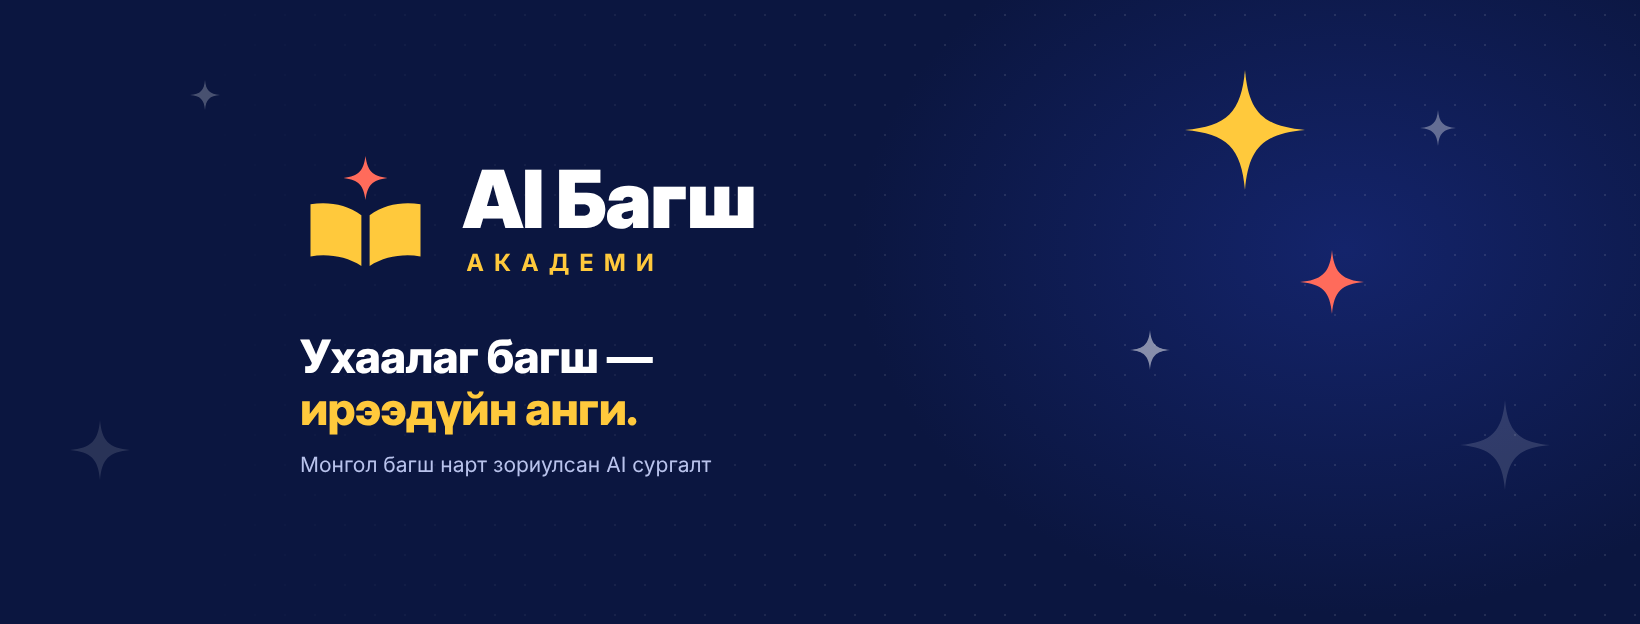
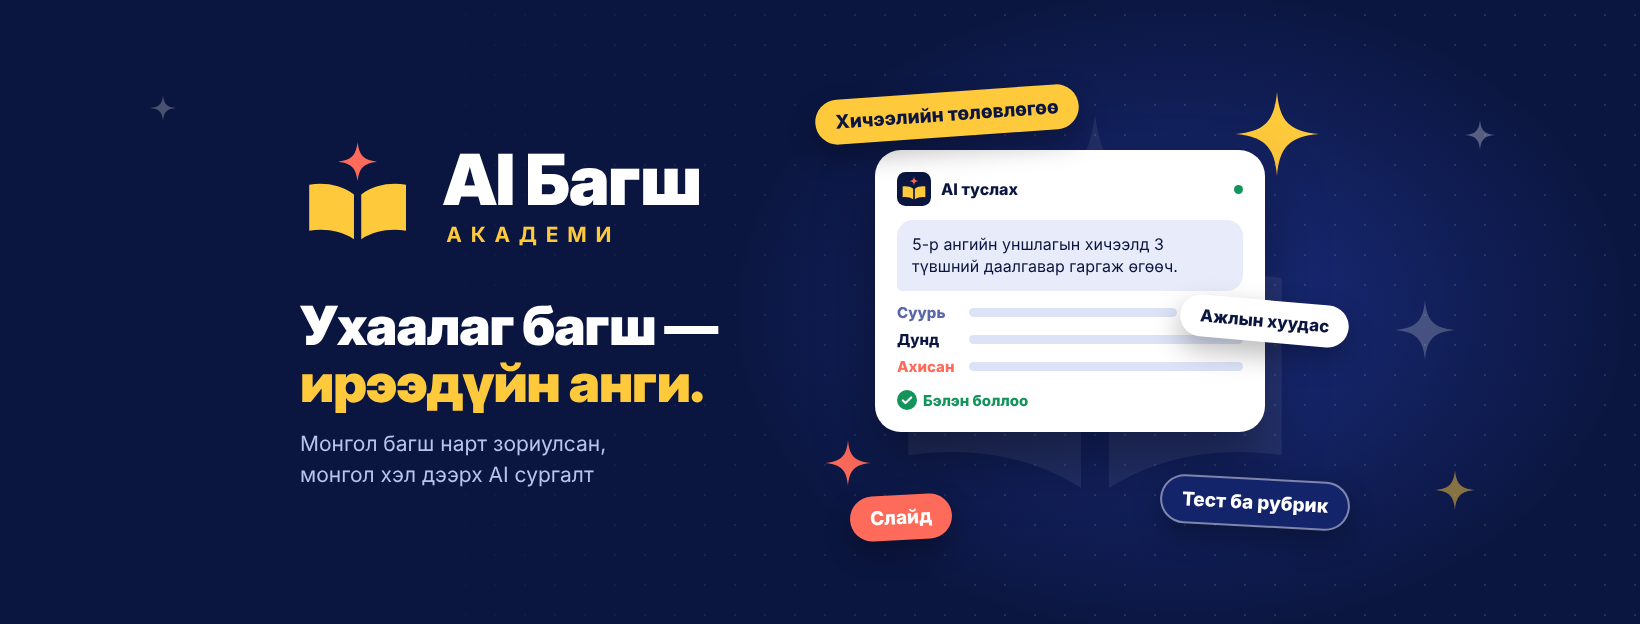
Brand cover: add AI assistant card composition, keep content in mobile safe zone
Claude-Session: https://claude.ai/code/session_011MF5bAcquYhXXWvdqZTLq1

diff --git a/brand/src/fb-cover.html b/brand/src/fb-cover.html
@@ -3,4 +3,4 @@
 body{font-family:Inter,sans-serif;color:#0B1640}
 svg{display:block;width:100%;height:100%}
 .lockup svg{width:100%;height:100%}
-html,body{width:1640px;height:624px;overflow:hidden}</style></head><body><div style="width:1640px;height:624px;background:#0B1640;position:relative;overflow:hidden"><div style="position:absolute;inset:0;background:radial-gradient(700px 520px at 82% 40%,#14246B,transparent 70%)"></div><div style="position:absolute;inset:0;background-image:radial-gradient(rgba(255,255,255,.10) 1.4px,transparent 1.5px);background-size:30px 30px;mask-image:linear-gradient(90deg,transparent 10%,#000 60%);-webkit-mask-image:linear-gradient(90deg,transparent 10%,#000 60%)"></div><div style="position:absolute;left:1185px;top:70px;width:120px;height:120px;opacity:1"><svg width="120" height="120" viewBox="0 0 100 100"><path d="M50 0 C53 35 65 47 100 50 C65 53 53 65 50 100 C47 65 35 53 0 50 C35 47 47 35 50 0Z" fill="#FFC93C"/></svg></div><div style="position:absolute;left:1300px;top:250px;width:64px;height:64px;opacity:1"><svg width="64" height="64" viewBox="0 0 100 100"><path d="M50 0 C53 35 65 47 100 50 C65 53 53 65 50 100 C47 65 35 53 0 50 C35 47 47 35 50 0Z" fill="#FF6B5B"/></svg></div><div style="position:absolute;left:1130px;top:330px;width:40px;height:40px;opacity:0.5"><svg width="40" height="40" viewBox="0 0 100 100"><path d="M50 0 C53 35 65 47 100 50 C65 53 53 65 50 100 C47 65 35 53 0 50 C35 47 47 35 50 0Z" fill="#FFFFFF"/></svg></div><div style="position:absolute;left:1420px;top:110px;width:36px;height:36px;opacity:0.35"><svg width="36" height="36" viewBox="0 0 100 100"><path d="M50 0 C53 35 65 47 100 50 C65 53 53 65 50 100 C47 65 35 53 0 50 C35 47 47 35 50 0Z" fill="#FFFFFF"/></svg></div><div style="position:absolute;left:1460px;top:400px;width:90px;height:90px;opacity:0.14"><svg width="90" height="90" viewBox="0 0 100 100"><path d="M50 0 C53 35 65 47 100 50 C65 53 53 65 50 100 C47 65 35 53 0 50 C35 47 47 35 50 0Z" fill="#FFFFFF"/></svg></div><div style="position:absolute;left:70px;top:420px;width:60px;height:60px;opacity:0.12"><svg width="60" height="60" viewBox="0 0 100 100"><path d="M50 0 C53 35 65 47 100 50 C65 53 53 65 50 100 C47 65 35 53 0 50 C35 47 47 35 50 0Z" fill="#FFFFFF"/></svg></div><div style="position:absolute;left:190px;top:80px;width:30px;height:30px;opacity:0.25"><svg width="30" height="30" viewBox="0 0 100 100"><path d="M50 0 C53 35 65 47 100 50 C65 53 53 65 50 100 C47 65 35 53 0 50 C35 47 47 35 50 0Z" fill="#FFFFFF"/></svg></div><div style="position:absolute;left:300px;top:0;bottom:0;display:flex;flex-direction:column;justify-content:center"><div class="lockup" style="display:inline-flex;align-items:center;gap:22.5px"><div style="width:165.0px;height:165.0px;margin:-12.5px -7.5px -12.5px -17.5px"><svg xmlns="http://www.w3.org/2000/svg" width="120" height="120" viewBox="0 0 120 120"><g transform="translate(0 4)"><path d="M57 92 C46 85 33 83 20 85 L20 47 C33 45 46 47 57 55 Z" fill="#FFC93C"/><path d="M63 92 C74 85 87 83 100 85 L100 47 C87 45 74 47 63 55 Z" fill="#FFC93C"/><path d="M60 12 C61.6 23 64.6 26.4 76 28 C64.6 29.6 61.6 33 60 44 C58.4 33 55.4 29.6 44 28 C55.4 26.4 58.4 23 60 12Z" fill="#FF6B5B"/></g></svg></div><div style="display:flex;flex-direction:column;line-height:1"><div style="font-family:Inter Display;font-weight:900;font-size:80.0px;letter-spacing:-.02em;color:#FFFFFF">AI Багш</div><div style="font-family:Inter;font-weight:700;font-size:23.75px;letter-spacing:.42em;color:#FFC93C;margin-top:11.25px;padding-left:3.75px">АКАДЕМИ</div></div></div><div style="font-family:Inter Display;font-weight:800;font-size:46px;letter-spacing:-.015em;color:#fff;margin-top:44px;line-height:1.12">Ухаалаг багш —<br><span style="color:#FFC93C">ирээдүйн анги.</span></div><div style="font-size:21px;color:#B9C3EC;margin-top:18px">Монгол багш нарт зориулсан AI сургалт</div></div></div></body></html>
+html,body{width:1640px;height:624px;overflow:hidden}</style></head><body><div style="width:1640px;height:624px;background:#0B1640;position:relative;overflow:hidden;font-family:Inter"><div style="position:absolute;inset:0;background:radial-gradient(640px 460px at 72% 50%,#1B2D80,transparent 70%)"></div><div style="position:absolute;inset:0;background-image:radial-gradient(rgba(255,255,255,.11) 1.4px,transparent 1.5px);background-size:30px 30px;mask-image:linear-gradient(90deg,transparent 20%,#000 65%);-webkit-mask-image:linear-gradient(90deg,transparent 20%,#000 65%)"></div><div style="position:absolute;inset:0;transform:translateX(-55px)"><div style="position:absolute;left:870px;top:40px;width:560px;height:560px;opacity:.07"><svg xmlns="http://www.w3.org/2000/svg" width="120" height="120" viewBox="0 0 120 120"><g transform="translate(0 4)"><path d="M57 92 C46 85 33 83 20 85 L20 47 C33 45 46 47 57 55 Z" fill="#FFFFFF"/><path d="M63 92 C74 85 87 83 100 85 L100 47 C87 45 74 47 63 55 Z" fill="#FFFFFF"/><path d="M60 12 C61.6 23 64.6 26.4 76 28 C64.6 29.6 61.6 33 60 44 C58.4 33 55.4 29.6 44 28 C55.4 26.4 58.4 23 60 12Z" fill="#FFFFFF"/></g></svg></div><div style="position:absolute;left:1290px;top:92px;width:84px;height:84px;opacity:1"><svg width="84" height="84" viewBox="0 0 100 100"><path d="M50 0 C53 35 65 47 100 50 C65 53 53 65 50 100 C47 65 35 53 0 50 C35 47 47 35 50 0Z" fill="#FFC93C"/></svg></div><div style="position:absolute;left:880px;top:440px;width:46px;height:46px;opacity:1"><svg width="46" height="46" viewBox="0 0 100 100"><path d="M50 0 C53 35 65 47 100 50 C65 53 53 65 50 100 C47 65 35 53 0 50 C35 47 47 35 50 0Z" fill="#FF6B5B"/></svg></div><div style="position:absolute;left:1450px;top:300px;width:60px;height:60px;opacity:0.22"><svg width="60" height="60" viewBox="0 0 100 100"><path d="M50 0 C53 35 65 47 100 50 C65 53 53 65 50 100 C47 65 35 53 0 50 C35 47 47 35 50 0Z" fill="#FFFFFF"/></svg></div><div style="position:absolute;left:1520px;top:120px;width:30px;height:30px;opacity:0.3"><svg width="30" height="30" viewBox="0 0 100 100"><path d="M50 0 C53 35 65 47 100 50 C65 53 53 65 50 100 C47 65 35 53 0 50 C35 47 47 35 50 0Z" fill="#FFFFFF"/></svg></div><div style="position:absolute;left:1490px;top:470px;width:40px;height:40px;opacity:0.5"><svg width="40" height="40" viewBox="0 0 100 100"><path d="M50 0 C53 35 65 47 100 50 C65 53 53 65 50 100 C47 65 35 53 0 50 C35 47 47 35 50 0Z" fill="#FFC93C"/></svg></div><div style="position:absolute;left:205px;top:95px;width:26px;height:26px;opacity:0.25"><svg width="26" height="26" viewBox="0 0 100 100"><path d="M50 0 C53 35 65 47 100 50 C65 53 53 65 50 100 C47 65 35 53 0 50 C35 47 47 35 50 0Z" fill="#FFFFFF"/></svg></div><div style="position:absolute;left:930px;top:150px;width:390px;background:#fff;color:#0B1640;border-radius:26px;padding:22px;box-shadow:0 30px 60px rgba(0,0,0,.4)"><div style="display:flex;align-items:center;gap:10px;margin-bottom:14px"><div style="width:34px;height:34px"><svg xmlns="http://www.w3.org/2000/svg" width="120" height="120" viewBox="0 0 120 120"><rect width="120" height="120" rx="30" fill="#0B1640"/><g transform="translate(0 4)"><path d="M57 92 C46 85 33 83 20 85 L20 47 C33 45 46 47 57 55 Z" fill="#FFC93C"/><path d="M63 92 C74 85 87 83 100 85 L100 47 C87 45 74 47 63 55 Z" fill="#FFC93C"/><path d="M60 12 C61.6 23 64.6 26.4 76 28 C64.6 29.6 61.6 33 60 44 C58.4 33 55.4 29.6 44 28 C55.4 26.4 58.4 23 60 12Z" fill="#FF6B5B"/></g></svg></div><div style="font-weight:800;font-size:16px">AI туслах</div><div style="margin-left:auto;width:9px;height:9px;border-radius:50%;background:#14935A"></div></div><div style="background:#E8ECFA;border-radius:16px 16px 16px 5px;padding:13px 15px;font-size:16px;line-height:1.4">5-р ангийн уншлагын хичээлд 3 түвшний даалгавар гаргаж өгөөч.</div><div style="margin-top:12px;display:flex;flex-direction:column;gap:8px"><div style="display:flex;align-items:center;gap:10px;font-size:15px"><span style="width:62px;font-weight:800;color:#5A67A8">Суурь</span><i style="flex:1;height:9px;border-radius:5px;background:#DDE3F7;max-width:60%"></i></div><div style="display:flex;align-items:center;gap:10px;font-size:15px"><span style="width:62px;font-weight:800;color:#0B1640">Дунд</span><i style="flex:1;height:9px;border-radius:5px;background:#DDE3F7;max-width:80%"></i></div><div style="display:flex;align-items:center;gap:10px;font-size:15px"><span style="width:62px;font-weight:800;color:#FF6B5B">Ахисан</span><i style="flex:1;height:9px;border-radius:5px;background:#DDE3F7;max-width:95%"></i></div></div><div style="margin-top:14px;font-weight:800;font-size:15px;color:#14935A"><svg width="20" height="20" viewBox="0 0 24 24" style="display:inline-block;width:20px;height:20px;vertical-align:-4px;margin-right:6px"><circle cx="12" cy="12" r="12" fill="#14935A"/><path d="M7 12.5l3.2 3.2L17 9" stroke="#fff" stroke-width="2.6" fill="none" stroke-linecap="round" stroke-linejoin="round"/></svg>Бэлэн боллоо</div></div><div style="position:absolute;left:870px;top:92px;transform:rotate(-4deg);background:#FFC93C;color:#0B1640;border-radius:999px;padding:11px 20px;font-weight:800;font-size:19px;white-space:nowrap;box-shadow:0 12px 28px rgba(0,0,0,.28)">Хичээлийн төлөвлөгөө</div><div style="position:absolute;left:1215px;top:478px;transform:rotate(3deg);background:#14246B;color:#fff;border:2px solid rgba(255,255,255,.45);border-radius:999px;padding:11px 20px;font-weight:800;font-size:19px;white-space:nowrap;box-shadow:0 12px 28px rgba(0,0,0,.28)">Тест ба рубрик</div><div style="position:absolute;left:905px;top:495px;transform:rotate(-3deg);background:#FF6B5B;color:#fff;border-radius:999px;padding:11px 20px;font-weight:800;font-size:19px;white-space:nowrap;box-shadow:0 12px 28px rgba(0,0,0,.28)">Слайд</div><div style="position:absolute;left:1235px;top:300px;transform:rotate(5deg);background:#fff;color:#0B1640;border-radius:999px;padding:11px 20px;font-weight:800;font-size:17px;white-space:nowrap;box-shadow:0 12px 28px rgba(0,0,0,.28)">Ажлын хуудас</div></div><div style="position:absolute;left:300px;top:0;bottom:0;display:flex;flex-direction:column;justify-content:center"><div class="lockup" style="display:inline-flex;align-items:center;gap:19.8px"><div style="width:145.20000000000002px;height:145.20000000000002px;margin:-11.0px -6.6000000000000005px -11.0px -15.400000000000002px"><svg xmlns="http://www.w3.org/2000/svg" width="120" height="120" viewBox="0 0 120 120"><g transform="translate(0 4)"><path d="M57 92 C46 85 33 83 20 85 L20 47 C33 45 46 47 57 55 Z" fill="#FFC93C"/><path d="M63 92 C74 85 87 83 100 85 L100 47 C87 45 74 47 63 55 Z" fill="#FFC93C"/><path d="M60 12 C61.6 23 64.6 26.4 76 28 C64.6 29.6 61.6 33 60 44 C58.4 33 55.4 29.6 44 28 C55.4 26.4 58.4 23 60 12Z" fill="#FF6B5B"/></g></svg></div><div style="display:flex;flex-direction:column;line-height:1"><div style="font-family:Inter Display;font-weight:900;font-size:70.4px;letter-spacing:-.02em;color:#FFFFFF">AI Багш</div><div style="font-family:Inter;font-weight:700;font-size:20.900000000000002px;letter-spacing:.42em;color:#FFC93C;margin-top:9.9px;padding-left:3.3000000000000003px">АКАДЕМИ</div></div></div><div style="font-family:Inter Display;font-weight:900;font-size:54px;letter-spacing:-.02em;color:#fff;margin-top:40px;line-height:1.06">Ухаалаг багш —<br><span style="color:#FFC93C">ирээдүйн анги.</span></div><div style="font-size:21px;color:#B9C3EC;margin-top:18px;line-height:1.45">Монгол багш нарт зориулсан,<br>монгол хэл дээрх AI сургалт</div></div></div></body></html>

diff --git a/brand/build.py b/brand/build.py
@@ -54,20 +54,41 @@ write("src/fb-profile.html",
       f'<div style="position:absolute;inset:0;background:radial-gradient(520px 520px at 50% 50%,#1A2C78,transparent 72%)"></div>'
       f'<div style="width:900px;height:900px;position:relative">{mark(GOLD, CORAL)}</div></div>', 1080, 1080)
 
-# --- Facebook cover (brand, not promo). Safe centre 1109px for mobile.
-cover_pattern = "".join(
-    f'<div style="position:absolute;left:{x}px;top:{y}px;width:{s}px;height:{s}px;opacity:{o}">{spark(c, s)}</div>'
-    for x,y,s,c,o in [(1185,70,120,GOLD,1),(1300,250,64,CORAL,1),(1130,330,40,"#FFFFFF",.5),(1420,110,36,"#FFFFFF",.35),(1460,400,90,"#FFFFFF",.14),(70,420,60,"#FFFFFF",.12),(190,80,30,"#FFFFFF",.25)])
+# --- Facebook cover (brand, not promo). Mobile shows centre 1109px (x 265-1374).
+def pill(text, bg, fg, border=None, x=0, y=0, rot=0, size=19):
+    b = f"border:2px solid {border};" if border else ""
+    return (f'<div style="position:absolute;left:{x}px;top:{y}px;transform:rotate({rot}deg);background:{bg};color:{fg};{b}'
+            f'border-radius:999px;padding:11px 20px;font-weight:800;font-size:{size}px;white-space:nowrap;box-shadow:0 12px 28px rgba(0,0,0,.28)">{text}</div>')
+chk = '<svg width="20" height="20" viewBox="0 0 24 24" style="display:inline-block;width:20px;height:20px;vertical-align:-4px;margin-right:6px"><circle cx="12" cy="12" r="12" fill="#14935A"/><path d="M7 12.5l3.2 3.2L17 9" stroke="#fff" stroke-width="2.6" fill="none" stroke-linecap="round" stroke-linejoin="round"/></svg>'
+chat = (f'<div style="position:absolute;left:930px;top:150px;width:390px;background:#fff;color:{NAVY};border-radius:26px;padding:22px;box-shadow:0 30px 60px rgba(0,0,0,.4)">'
+        f'<div style="display:flex;align-items:center;gap:10px;margin-bottom:14px"><div style="width:34px;height:34px">{mark(GOLD,CORAL,NAVY)}</div>'
+        f'<div style="font-weight:800;font-size:16px">AI туслах</div><div style="margin-left:auto;width:9px;height:9px;border-radius:50%;background:#14935A"></div></div>'
+        f'<div style="background:{SKY};border-radius:16px 16px 16px 5px;padding:13px 15px;font-size:16px;line-height:1.4">5-р ангийн уншлагын хичээлд 3 түвшний даалгавар гаргаж өгөөч.</div>'
+        f'<div style="margin-top:12px;display:flex;flex-direction:column;gap:8px">'
+        + "".join(f'<div style="display:flex;align-items:center;gap:10px;font-size:15px"><span style="width:62px;font-weight:800;color:{c}">{lv}</span><i style="flex:1;height:9px;border-radius:5px;background:#DDE3F7;max-width:{w}%"></i></div>'
+                  for lv,c,w in [("Суурь","#5A67A8",60),("Дунд",NAVY,80),("Ахисан",CORAL,95)])
+        + f'</div><div style="margin-top:14px;font-weight:800;font-size:15px;color:#14935A">{chk}Бэлэн боллоо</div></div>')
+deco = "".join(
+    f'<div style="position:absolute;left:{x}px;top:{y}px;width:{sz}px;height:{sz}px;opacity:{o}">{spark(c, sz)}</div>'
+    for x,y,sz,c,o in [(1290,92,84,GOLD,1),(880,440,46,CORAL,1),(1450,300,60,"#FFFFFF",.22),(1520,120,30,"#FFFFFF",.3),(1490,470,40,GOLD,.5),(205,95,26,"#FFFFFF",.25)])
 write("src/fb-cover.html",
-      f'<div style="width:1640px;height:624px;background:{NAVY};position:relative;overflow:hidden">'
-      f'<div style="position:absolute;inset:0;background:radial-gradient(700px 520px at 82% 40%,{NAVY2},transparent 70%)"></div>'
-      f'<div style="position:absolute;inset:0;background-image:radial-gradient(rgba(255,255,255,.10) 1.4px,transparent 1.5px);background-size:30px 30px;'
-      f'mask-image:linear-gradient(90deg,transparent 10%,#000 60%);-webkit-mask-image:linear-gradient(90deg,transparent 10%,#000 60%)"></div>'
-      f'{cover_pattern}'
-      f'<div style="position:absolute;left:300px;top:0;bottom:0;display:flex;flex-direction:column;justify-content:center">'
-      f'{lockup(True,1.25)}'
-      f'<div style="font-family:Inter Display;font-weight:800;font-size:46px;letter-spacing:-.015em;color:#fff;margin-top:44px;line-height:1.12">Ухаалаг багш —<br><span style="color:{GOLD}">ирээдүйн анги.</span></div>'
-      f'<div style="font-size:21px;color:{MIST};margin-top:18px">Монгол багш нарт зориулсан AI сургалт</div>'
+      f'<div style="width:1640px;height:624px;background:{NAVY};position:relative;overflow:hidden;font-family:Inter">'
+      f'<div style="position:absolute;inset:0;background:radial-gradient(640px 460px at 72% 50%,#1B2D80,transparent 70%)"></div>'
+      f'<div style="position:absolute;inset:0;background-image:radial-gradient(rgba(255,255,255,.11) 1.4px,transparent 1.5px);background-size:30px 30px;'
+      f'mask-image:linear-gradient(90deg,transparent 20%,#000 65%);-webkit-mask-image:linear-gradient(90deg,transparent 20%,#000 65%)"></div>'
+      # big faint brand book behind the composition
+      f'<div style="position:absolute;inset:0;transform:translateX(-55px)">'
+      f'<div style="position:absolute;left:870px;top:40px;width:560px;height:560px;opacity:.07">{mark("#FFFFFF","#FFFFFF")}</div>'
+      f'{deco}{chat}'
+      + pill("Хичээлийн төлөвлөгөө", GOLD, NAVY, x=870, y=92, rot=-4)
+      + pill("Тест ба рубрик", NAVY2, "#fff", border="rgba(255,255,255,.45)", x=1215, y=478, rot=3)
+      + pill("Слайд", CORAL, "#fff", x=905, y=495, rot=-3)
+      + pill("Ажлын хуудас", "#fff", NAVY, x=1235, y=300, rot=5, size=17)
+      + '</div>'
+      + f'<div style="position:absolute;left:300px;top:0;bottom:0;display:flex;flex-direction:column;justify-content:center">'
+      f'{lockup(True,1.1)}'
+      f'<div style="font-family:Inter Display;font-weight:900;font-size:54px;letter-spacing:-.02em;color:#fff;margin-top:40px;line-height:1.06">Ухаалаг багш —<br><span style="color:{GOLD}">ирээдүйн анги.</span></div>'
+      f'<div style="font-size:21px;color:{MIST};margin-top:18px;line-height:1.45">Монгол багш нарт зориулсан,<br>монгол хэл дээрх AI сургалт</div>'
       f'</div></div>', 1640, 624)
 
 # --- Brand guide (16:9 pages)
